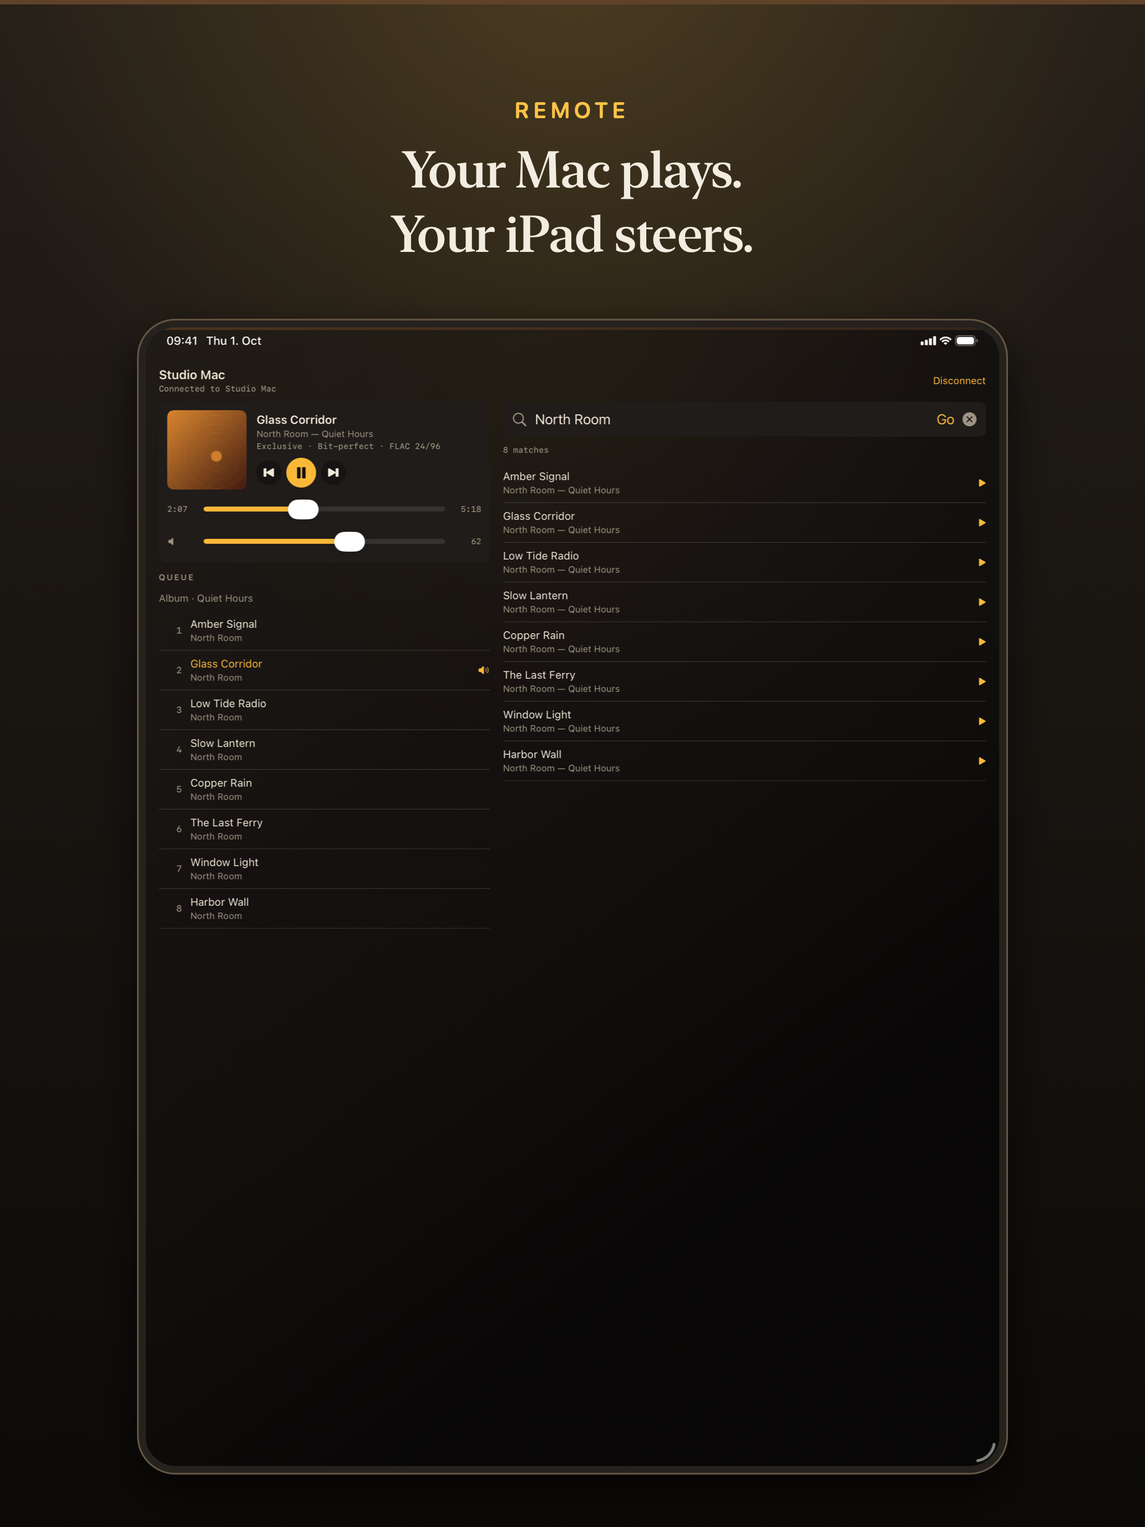
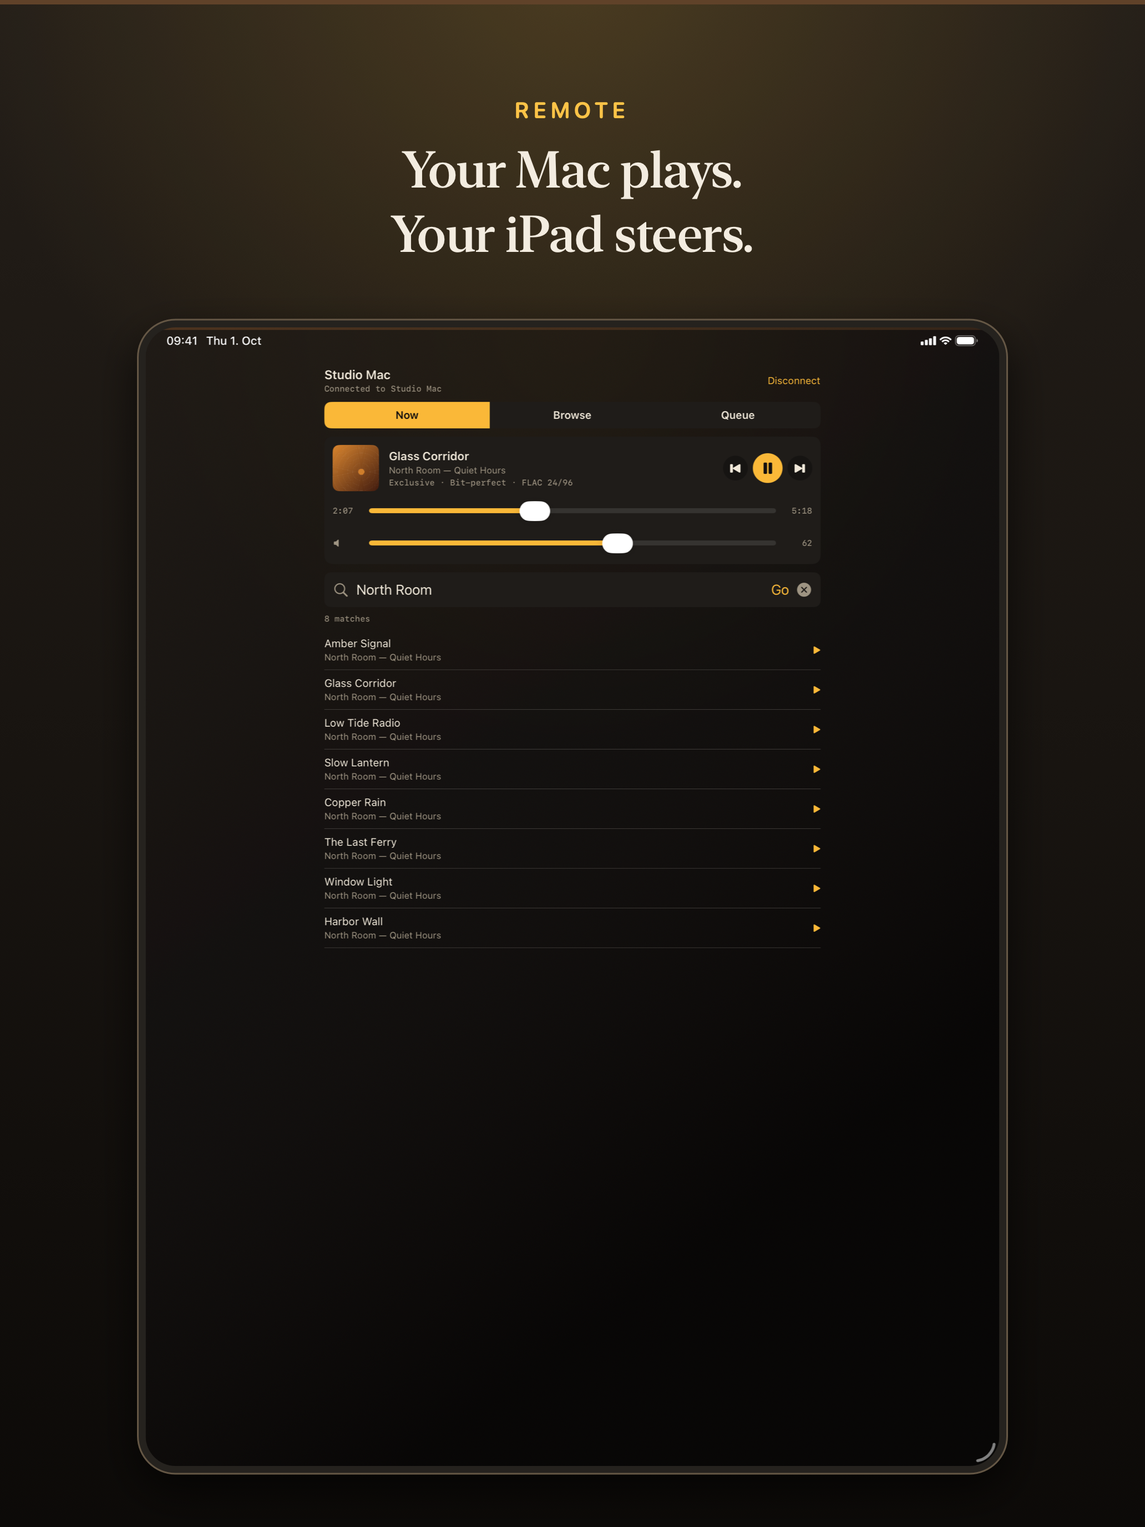
iPad remote: same layout as the iPhone, centred.
Drop the two-column iPad layout. The iPad shows the iPhone's Now /
Browse / Queue panes at up to 600 pt wide, like discovery and pairing.
iPad screenshots recaptured with the iPhone's five scenes; docs no
longer describe two columns.

diff --git a/AudioHarbor/Remote/UI/RemoteControllerView.swift b/AudioHarbor/Remote/UI/RemoteControllerView.swift
@@ -43,9 +43,6 @@ private struct BrowseDrill: Equatable {
 struct RemoteControllerView: View {
     @Bindable var controller: RemoteController
     @Environment(\.scenePhase) private var scenePhase
-    #if os(iOS)
-    @Environment(\.horizontalSizeClass) private var horizontalSizeClass
-    #endif
     @State private var pane: RemotePane = .now
     @State private var seekDraft: Double = 0
     @State private var isSeeking = false
@@ -65,21 +62,17 @@ struct RemoteControllerView: View {
                 case .needsPairing:
                     pairingPanel
                 case .connected:
-                    if isWide {
-                        wideLayout
-                    } else {
-                        panePicker
-                        switch pane {
-                        case .now:
-                            VStack(alignment: .leading, spacing: 10) {
-                                compactNowPlaying(large: false)
-                                searchPanel
-                            }
-                        case .browse:
-                            browsePanel
-                        case .queue:
-                            queuePanel
+                    panePicker
+                    switch pane {
+                    case .now:
+                        VStack(alignment: .leading, spacing: 10) {
+                            compactNowPlaying
+                            searchPanel
                         }
+                    case .browse:
+                        browsePanel
+                    case .queue:
+                        queuePanel
                     }
                 case .connecting:
                     ProgressView()
@@ -98,9 +91,8 @@ struct RemoteControllerView: View {
             }
             // Short panels (pairing, errors) start under the header instead of floating mid-screen.
             .frame(maxWidth: .infinity, maxHeight: .infinity, alignment: .topLeading)
-            // On iPad only the connected two-column layout uses the full width.
-            .frame(maxWidth: isWide && controller.phase != .connected ? 600 : .infinity)
-            .frame(maxWidth: .infinity)
+            // The iPad shows the iPhone layout, centred at a phone-like width.
+            .remoteReadableWidth()
         }
         .onReceive(tickTimer) { tick = $0 }
         #if DEBUG && os(iOS)
@@ -128,39 +120,6 @@ struct RemoteControllerView: View {
         #if os(macOS)
         .frame(minWidth: 440, minHeight: 640)
         #endif
-    }
-
-    /// iPad full screen or a wide Split View: everything at once instead of three panes.
-    private var isWide: Bool {
-        #if os(iOS)
-        horizontalSizeClass == .regular
-        #else
-        false
-        #endif
-    }
-
-    /// Left: what plays and what comes next. Right: search over browse — typing swaps
-    /// the browse list for the matches.
-    private var wideLayout: some View {
-        HStack(alignment: .top, spacing: 16) {
-            VStack(alignment: .leading, spacing: 12) {
-                compactNowPlaying(large: true)
-                EngravedLabel(text: "Queue")
-                queuePanel
-            }
-            .frame(width: 400)
-            .frame(maxHeight: .infinity, alignment: .top)
-
-            VStack(alignment: .leading, spacing: 10) {
-                searchField
-                if searchText.isEmpty {
-                    browsePanel
-                } else {
-                    searchResults
-                }
-            }
-            .frame(maxWidth: .infinity, maxHeight: .infinity, alignment: .top)
-        }
     }
 
     private var header: some View {
@@ -241,7 +200,7 @@ struct RemoteControllerView: View {
         .padding(.top, 8)
     }
 
-    private func compactNowPlaying(large: Bool) -> some View {
+    private var compactNowPlaying: some View {
         let snap = controller.nowPlaying
         let track = snap?.track
         let position = isSeeking ? seekDraft : controller.displayedPosition
@@ -255,8 +214,8 @@ struct RemoteControllerView: View {
                     .frame(maxWidth: .infinity, alignment: .leading)
             }
             HStack(spacing: 12) {
-                artwork(for: track?.artworkHash, large: large)
-                    .frame(width: large ? 96 : 56, height: large ? 96 : 56)
+                artwork(for: track?.artworkHash, large: false)
+                    .frame(width: 56, height: 56)
                     .clipShape(RoundedRectangle(cornerRadius: 8, style: .continuous))
 
                 VStack(alignment: .leading, spacing: 2) {
@@ -275,16 +234,15 @@ struct RemoteControllerView: View {
                             .foregroundStyle(HarborColor.ivoryDim)
                             .lineLimit(1)
                     }
-                    // Large card: transport under the text, so the path line keeps its room.
-                    if large {
-                        transportButtons
-                            .padding(.top, 6)
-                    }
                 }
                 .frame(maxWidth: .infinity, alignment: .leading)
 
-                if !large {
-                    transportButtons
+                HStack(spacing: 6) {
+                    compactTransport("backward.end.fill") { controller.previous() }
+                    compactTransport(controller.isPlaying ? "pause.fill" : "play.fill", emphasized: true) {
+                        controller.togglePlayPause()
+                    }
+                    compactTransport("forward.end.fill") { controller.next() }
                 }
             }
 
@@ -326,64 +284,56 @@ struct RemoteControllerView: View {
 
     private var searchPanel: some View {
         VStack(alignment: .leading, spacing: 8) {
-            searchField
-            searchResults
-        }
-        .frame(maxWidth: .infinity, maxHeight: .infinity, alignment: .top)
-    }
-
-    private var searchField: some View {
-        HStack {
-            Image(systemName: "magnifyingglass")
-                .foregroundStyle(HarborColor.ivoryDim)
-            TextField("Search whole catalogue", text: $searchText)
-                .textFieldStyle(.plain)
-                .foregroundStyle(HarborColor.ivory)
-                .onChange(of: searchText) { _, newValue in
-                    scheduleSearch(newValue)
-                }
-                .onSubmit { controller.search(searchText) }
-            if !searchText.isEmpty {
-                Button("Go") { controller.search(searchText) }
+            HStack {
+                Image(systemName: "magnifyingglass")
+                    .foregroundStyle(HarborColor.ivoryDim)
+                TextField("Search whole catalogue", text: $searchText)
+                    .textFieldStyle(.plain)
+                    .foregroundStyle(HarborColor.ivory)
+                    .onChange(of: searchText) { _, newValue in
+                        scheduleSearch(newValue)
+                    }
+                    .onSubmit { controller.search(searchText) }
+                if !searchText.isEmpty {
+                    Button("Go") { controller.search(searchText) }
+                        .buttonStyle(.plain)
+                        .foregroundStyle(HarborColor.amber)
+                    Button {
+                        searchTask?.cancel()
+                        searchText = ""
+                        controller.clearSearch()
+                    } label: {
+                        Image(systemName: "xmark.circle.fill")
+                            .foregroundStyle(HarborColor.ivoryDim)
+                    }
                     .buttonStyle(.plain)
-                    .foregroundStyle(HarborColor.amber)
-                Button {
-                    searchTask?.cancel()
-                    searchText = ""
-                    controller.clearSearch()
-                } label: {
-                    Image(systemName: "xmark.circle.fill")
-                        .foregroundStyle(HarborColor.ivoryDim)
                 }
-                .buttonStyle(.plain)
             }
-        }
-        .padding(10)
-        .background(HarborColor.faceplateLift)
-        .clipShape(RoundedRectangle(cornerRadius: 8, style: .continuous))
-    }
+            .padding(10)
+            .background(HarborColor.faceplateLift)
+            .clipShape(RoundedRectangle(cornerRadius: 8, style: .continuous))
 
-    @ViewBuilder
-    private var searchResults: some View {
-        if controller.searchResults.isEmpty {
-            Text(searchText.isEmpty ? "Search the whole Mac catalogue" : "No matches")
-                .font(HarborFont.body(13))
-                .foregroundStyle(HarborColor.ivoryDim)
-                .frame(maxWidth: .infinity, maxHeight: .infinity)
-        } else {
-            Text("\(controller.searchResults.count) match\(controller.searchResults.count == 1 ? "" : "es")")
-                .font(HarborFont.mono(10))
-                .foregroundStyle(HarborColor.ivoryDim)
-            ScrollView {
-                LazyVStack(alignment: .leading, spacing: 0) {
-                    ForEach(controller.searchResults, id: \.cataloguePath) { track in
-                        trackRow(track)
-                        Divider().overlay(HarborColor.aluminumDark.opacity(0.4))
+            if controller.searchResults.isEmpty {
+                Text(searchText.isEmpty ? "Search the whole Mac catalogue" : "No matches")
+                    .font(HarborFont.body(13))
+                    .foregroundStyle(HarborColor.ivoryDim)
+                    .frame(maxWidth: .infinity, maxHeight: .infinity)
+            } else {
+                Text("\(controller.searchResults.count) match\(controller.searchResults.count == 1 ? "" : "es")")
+                    .font(HarborFont.mono(10))
+                    .foregroundStyle(HarborColor.ivoryDim)
+                ScrollView {
+                    LazyVStack(alignment: .leading, spacing: 0) {
+                        ForEach(controller.searchResults, id: \.cataloguePath) { track in
+                            trackRow(track)
+                            Divider().overlay(HarborColor.aluminumDark.opacity(0.4))
+                        }
                     }
                 }
+                .frame(maxWidth: .infinity, maxHeight: .infinity)
             }
-            .frame(maxWidth: .infinity, maxHeight: .infinity)
         }
+        .frame(maxWidth: .infinity, maxHeight: .infinity, alignment: .top)
     }
 
     private func scheduleSearch(_ query: String) {
@@ -397,16 +347,6 @@ struct RemoteControllerView: View {
             try? await Task.sleep(nanoseconds: 250_000_000)
             guard !Task.isCancelled else { return }
             controller.search(trimmed)
-        }
-    }
-
-    private var transportButtons: some View {
-        HStack(spacing: 6) {
-            compactTransport("backward.end.fill") { controller.previous() }
-            compactTransport(controller.isPlaying ? "pause.fill" : "play.fill", emphasized: true) {
-                controller.togglePlayPause()
-            }
-            compactTransport("forward.end.fill") { controller.next() }
         }
     }
 

diff --git a/docs/index.html b/docs/index.html
@@ -870,7 +870,7 @@
       <div class="host-card">
         <div class="lead">Next, free · not yet released</div>
         <h3>iPhone &amp; iPad remote</h3>
-        <p>The music stays on the Mac and its DAC; your iPhone or iPad steers. Browse, search, queue, play — and set the <strong>DAC’s own volume</strong> with its volume buttons, still bit-perfect. On iPad, the queue and your library sit side by side. Local network only, no account.</p>
+        <p>The music stays on the Mac and its DAC; your iPhone or iPad steers. Browse, search, queue, play — and set the <strong>DAC’s own volume</strong> with its volume buttons, still bit-perfect. Local network only, no account.</p>
       </div>
     </div>
   </div>

diff --git a/docs/faq.html b/docs/faq.html
@@ -311,7 +311,6 @@
       <summary>What does Audio Harbor on iPhone and iPad do?</summary>
       <div class="answer">
         <p>It is a remote for Audio Harbor on your Mac. The music plays on the Mac and its DAC; the iPhone or iPad browses, searches, starts albums and playlists, jumps in the queue, and sets the volume. Nothing is copied to it. The remote is free.</p>
-        <p>On iPad, what plays and the queue sit on the left and your library and search on the right. In a narrow Split View it switches to the iPhone layout.</p>
       </div>
     </details>
 

diff --git a/APP_STORE_SUBMISSION.md b/APP_STORE_SUBMISSION.md
@@ -106,7 +106,7 @@ Ordnerzugriff läuft über `NSOpenPanel` / `fileImporter` + security-scoped Book
 | 11 | DSD-Strategie entfernt, der Output-Modus entscheidet; Exclusive spielt DSD exklusiv als PCM (Umrechnung vorab im Hintergrund); DoP nur an externe DACs (USB, Thunderbolt, FireWire, PCI); AU-Plugins ohne `sandboxSafe` laden out-of-process; kein Absturz mehr beim Start mit Plugin-Rack |
 | 12 | DAC bleibt über Titelwechsel exklusiv (kein DSD↔PCM-Umschalten pro Titel, das manche DACs per USB-Reset quittieren); solange die App den DAC hält, ist er das Ziel statt des System-Standards; Play nach fehlgeschlagenem Laden lädt den Titel neu |
 | 13 | Exclusive/DoP nur mit externem DAC (sonst Shared, Lautstärketasten gehen); Settings grauen sie ohne DAC aus, zeigen Shared und wählen beim Anstecken wieder die vorherige DAC-Einstellung; M3U/M3U8-Import und -Export (Entitlement `user-selected.read-write`); neues App-Icon; FAQ-Seite `docs/faq.html` |
-| 1.1.0 (1) | iPhone- und iPad-Remote (iPad zweispaltig: Now + Queue links, Suche/Browse rechts): Remote-Server am Mac (Bonjour, Pairing-Code, Token), DAC-Lautstärke per Remote; FLAC-Tags und -Cover werden gelesen, Cover-Dateien im Ordner (`cover.jpg`, `folder.jpg`, …) als Rückfall; Alben nach Album-Artist gruppiert, Sampler ohne Tag bleiben ein Album; größeres Cover im Deck, auch bei Tonband und Receiver; Rechtsklick „Add to Playlist“ / „Labels“ für Ordner, Alben, Künstler und die Deck-Queue; Klick spielt ohne Sprung zum Deck (⌘-Klick, „Play and Show Deck“, ⌘3). Der Katalog wird beim ersten Start einmal neu eingelesen (neues Schema). |
+| 1.1.0 (1) | iPhone- und iPad-Remote (iPad mit derselben Oberfläche wie das iPhone, mittig): Remote-Server am Mac (Bonjour, Pairing-Code, Token), DAC-Lautstärke per Remote; FLAC-Tags und -Cover werden gelesen, Cover-Dateien im Ordner (`cover.jpg`, `folder.jpg`, …) als Rückfall; Alben nach Album-Artist gruppiert, Sampler ohne Tag bleiben ein Album; größeres Cover im Deck, auch bei Tonband und Receiver; Rechtsklick „Add to Playlist“ / „Labels“ für Ordner, Alben, Künstler und die Deck-Queue; Klick spielt ohne Sprung zum Deck (⌘-Klick, „Play and Show Deck“, ⌘3). Der Katalog wird beim ersten Start einmal neu eingelesen (neues Schema). |
 
 - [ ] Vor dem Upload mit USB-DAC testen: DSF, DFF und SACD ISO in **DoP** (kein Rauschen, keine Aussetzer), PCM in **Exclusive**
 
@@ -349,13 +349,13 @@ Der iPhone-Remote ist **kostenlos** und hat keine eigene Trial-Sperre. Die Trial
 - [x] **`NSLocalNetworkUsageDescription` neutral formuliert.** Der Text erscheint auch auf dem iPhone, dort passte „on this Mac“ nicht. Jetzt: `Audio Harbor uses your local network so your iPhone can find your Mac and control playback on it.`
 - [x] **Entitlements pro Plattform.** `AudioHarbor.entitlements` enthält macOS-Schlüssel (`com.apple.security.*`), die ein iOS-Upload ablehnen kann (ITMS-90046). iOS signiert jetzt mit `AudioHarbor/Resources/AudioHarbor-iOS.entitlements` (leeres `<dict/>` — Bonjour braucht kein Entitlement, nur `NSBonjourServices`), gesetzt über `CODE_SIGN_ENTITLEMENTS[sdk=iphoneos*]` in `project.yml`.
 - [x] **Mac-Entitlements für 1.1.0**: `com.apple.security.network.server` + `network.client` stehen in `project.yml` (in 1.0.0 nicht). Falls Review fragt: „The Mac listens on the local network only so the user’s own paired iPhone can control playback.“
-- [x] **iPhone und iPad.** `TARGETED_DEVICE_FAMILY: "1,2"` in `project.yml`. Auf dem iPad (regular width) zeigt der Remote zwei Spalten: links Now Playing + Queue, rechts Suche über Browse. In schmalem Split View fällt er auf das iPhone-Layout zurück; Discovery und Pairing stehen zentriert auf lesbarer Breite. Alle vier Ausrichtungen sind erlaubt (Pflicht für iPad-Multitasking). Achtung: iPad-Unterstützung lässt sich nach dem ersten Release **nicht mehr entfernen**.
+- [x] **iPhone und iPad.** `TARGETED_DEVICE_FAMILY: "1,2"` in `project.yml`. Das iPad zeigt genau die iPhone-Oberfläche (Now · Browse · Queue), mittig auf höchstens 600 pt Breite — auch Discovery und Pairing. Alle vier Ausrichtungen sind erlaubt (Pflicht für iPad-Multitasking). Achtung: iPad-Unterstützung lässt sich nach dem ersten Release **nicht mehr entfernen**.
 - [x] **Gesperrter Mac sichtbar.** Ist die Trial am Mac abgelaufen, meldet der Snapshot `playbackLocked`, und das iPhone zeigt über Now Playing: „The trial on … has ended. Unlock Audio Harbor in its Settings to keep playing.“
 
 ### 11.3 Testen vor dem Upload
 
 - [ ] Echtes iPhone + Mac im selben WLAN: Mac findet sich, Pairing mit Code, Reconnect ohne Code (Token), *Revoke* am Mac wirft das iPhone raus
-- [ ] Dasselbe mit einem iPad: zwei Spalten im Quer- und Hochformat, schmales Split View zeigt das iPhone-Layout, Lautstärketasten am iPad
+- [ ] Dasselbe mit einem iPad: Hoch- und Querformat, Split View, Lautstärketasten am iPad
 - [ ] Local-Network-Abfrage auf dem iPhone erscheint beim ersten Suchen; nach *Ablehnen* zeigt die App einen verständlichen Zustand
 - [ ] Play / Pause / Skip / Seek / Queue / Suche / Ordner, Album, Playlist starten
 - [ ] Lautstärke: Regler und Lautstärketasten am iPhone ändern den DAC (Exclusive **und** DoP), Drehknopf am DAC oder Mac-Lautstärketasten (Shared) wandern zurück aufs iPhone. DAC ohne Hardware-Lautstärke: kein Regler, Hinweistext
@@ -384,7 +384,7 @@ Steer Audio Harbor on your Mac from the couch. Browse, queue, play, and set your
 **Description:**
 
 ```
-Audio Harbor for iPhone and iPad is the remote for Audio Harbor on your Mac. The music plays on the Mac and its DAC — your iPhone or iPad steers. On iPad, what plays, the queue, and your library sit side by side.
+Audio Harbor for iPhone and iPad is the remote for Audio Harbor on your Mac. The music plays on the Mac and its DAC — your iPhone or iPad steers.
 
 You need Audio Harbor for Mac on the same network. Turn on Settings → Remote → Allow Remote Control on the Mac, then enter the six-digit code on the phone once. After that the phone reconnects on its own.
 
@@ -421,12 +421,13 @@ Fertiger Satz (Oktober 2026): [`marketing/app-store/iphone-1320x2868/`](marketin
 
 Die Daten sind erfunden (Künstler, Alben, generierte Cover — keine echte Musik, keine echten Gerätenamen). Sie kommen aus dem Fixture-Modus des Debug-Builds (`RemoteScreenshotFixture.swift`, Launch-Argument `-remoteScreenshot <scene>`), der im Release-Build nicht existiert. Texte stehen in `marketing/app-store/screenshots-iphone.txt`, die Rohaufnahmen in `raw-iphone/`. Neu erzeugen: `marketing/app-store/build-iphone.sh --capture` (baut, startet den Simulator „iPhone 17 Pro Max“, nimmt auf, setzt zusammen); ohne `--capture` nur neu zusammensetzen.
 
-iPad-Satz (Oktober 2026): [`marketing/app-store/ipad-2064x2752/`](marketing/app-store/ipad-2064x2752/), 4 Bilder, opak, 2064 × 2752, gleicher Fixture-Modus auf dem Simulator „iPad Pro 13-inch (M5)“:
+iPad-Satz (Oktober 2026): [`marketing/app-store/ipad-2064x2752/`](marketing/app-store/ipad-2064x2752/), 5 Bilder, opak, 2064 × 2752, gleicher Fixture-Modus auf dem Simulator „iPad Pro 13-inch (M5)“:
 
-1. **Remote** — „Your Mac plays. Your iPad steers.“ (zwei Spalten: Now + Queue, Suche)
-2. **Browse** — „Your whole library next to what plays.“
-3. **Nearby** — „Finds your Mac on its own. No account.“
-4. **Pairing** — „Pair once with a code from the Mac.“
+1. **Remote** — „Your Mac plays. Your iPad steers.“
+2. **Browse** — „Every album on your Mac, in your hand.“
+3. **Queue** — „Jump anywhere in what plays next.“
+4. **Nearby** — „Finds your Mac on its own. No account.“
+5. **Pairing** — „Pair once with a code from the Mac.“
 
 Texte in `marketing/app-store/screenshots-ipad.txt`, Rohaufnahmen in `raw-ipad/`. Neu erzeugen: `marketing/app-store/build-ipad.sh --capture`; `compose-iphone.swift` setzt beide Formate zusammen.
 
@@ -439,7 +440,7 @@ To review:
 1. Install the Mac build from this same submission on a Mac and add a folder with a few audio files.
 2. On the Mac: Settings → Remote → turn on "Allow Remote Control", then "New Code".
 3. On the iPhone or iPad (same Wi-Fi): allow local network access, tap the Mac, enter the six-digit code.
-4. Play, browse, search, and change the volume. The device's volume buttons change the Mac's output volume while the remote is open. On iPad, Now Playing with the queue and the library are shown side by side.
+4. Play, browse, search, and change the volume. The device's volume buttons change the Mac's output volume while the remote is open.
 
 A screen recording of this flow is here: <URL>
 

diff --git a/README.md b/README.md
@@ -31,7 +31,7 @@ Select the **AudioHarbor** scheme → **My Mac** or an iPhone simulator → Run.
 - M3U / M3U8 playlist import and export
 - Real metadata + artwork via AVFoundation (incl. FLAC Vorbis comments) / DSD probe; folder images (`cover`, `folder`, `front`, …) when a file has none
 - Albums grouped by album artist; untagged compilations in one folder stay one album
-- iPhone and iPad remote: Bonjour + pairing code; browse, queue, transport, DAC volume; two columns on iPad
+- iPhone and iPad remote: Bonjour + pairing code; browse, queue, transport, DAC volume; the iPad shows the same layout as the iPhone
 - Mac exclusive mode: hog + sample-rate match + HAL 24-bit path, external DACs only (USB / Thunderbolt / FireWire / PCI); Exclusive and DoP grey out without one and the choice returns when the DAC is plugged in
 - DSF / DFF → DoP in Output DoP; DSD→PCM in Shared and Exclusive
 - SACD ISO stereo tracks, including MPEG-4 DST → cached DFF → same DSD path

diff --git a/docs/PRODUCT.md b/docs/PRODUCT.md
@@ -97,7 +97,7 @@ Ship only after MVP feels effortless. Pro adds power *behind* the same calm UI.
 ### Platform Pro
 - [x] iPhone remote for the Mac engine — Bonjour + pairing code; browse, search, queue, transport; DAC hardware volume from the slider and the iPhone's volume buttons (ships with Mac 1.1)
 - Listen on iPhone — the Mac streams to the paired iPhone on the home network (see below)
-- [x] iPad as a remote too — two columns (Now + Queue · Search/Browse), iPhone layout in narrow Split View
+- [x] iPad as a remote too — the same layout as the iPhone, centred
 - Mac menu bar mini player + notch-friendly compact mode
 - Continuity: handoff queue Mac ↔ iPhone (same library roots when possible)
 - CarPlay (iOS) — later, carefully
